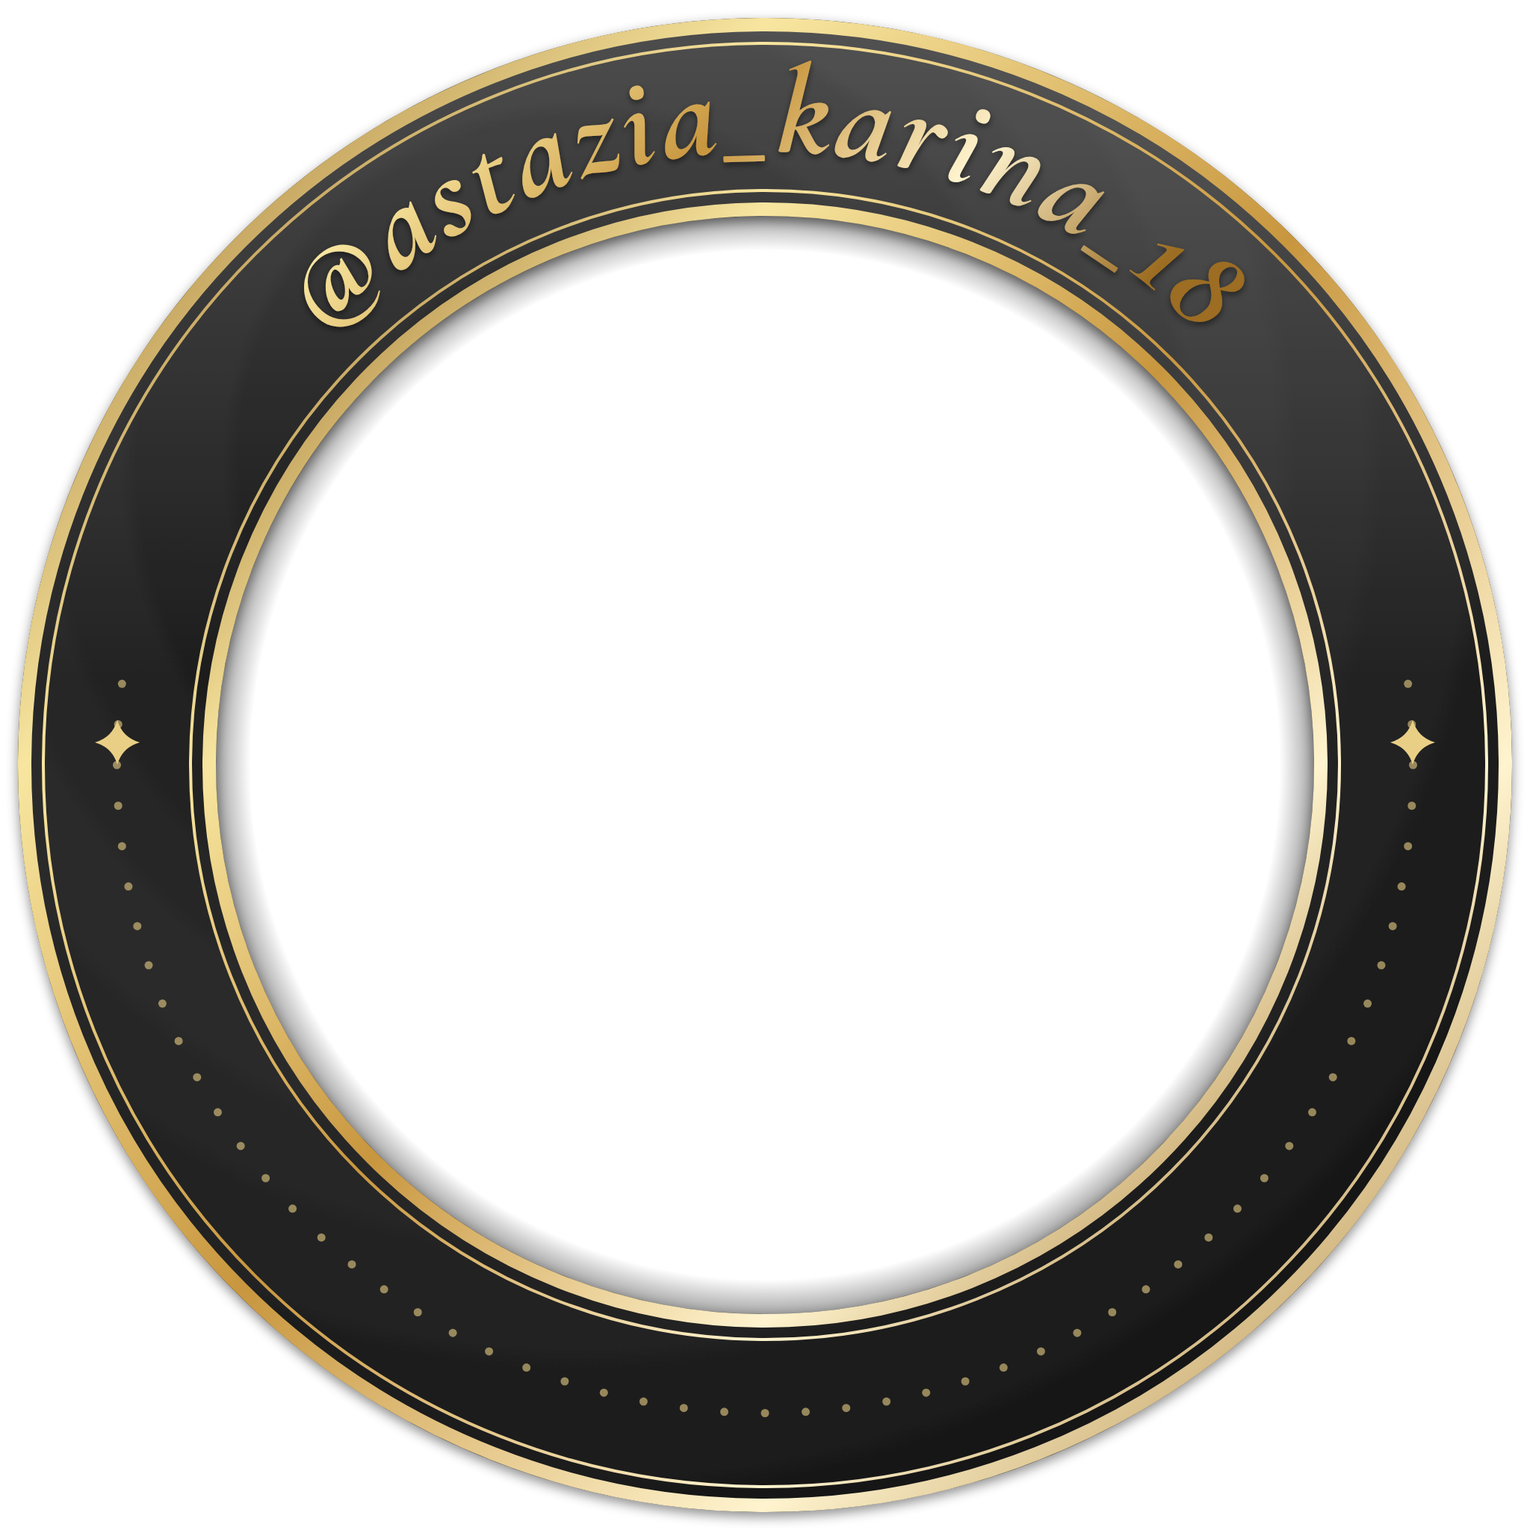
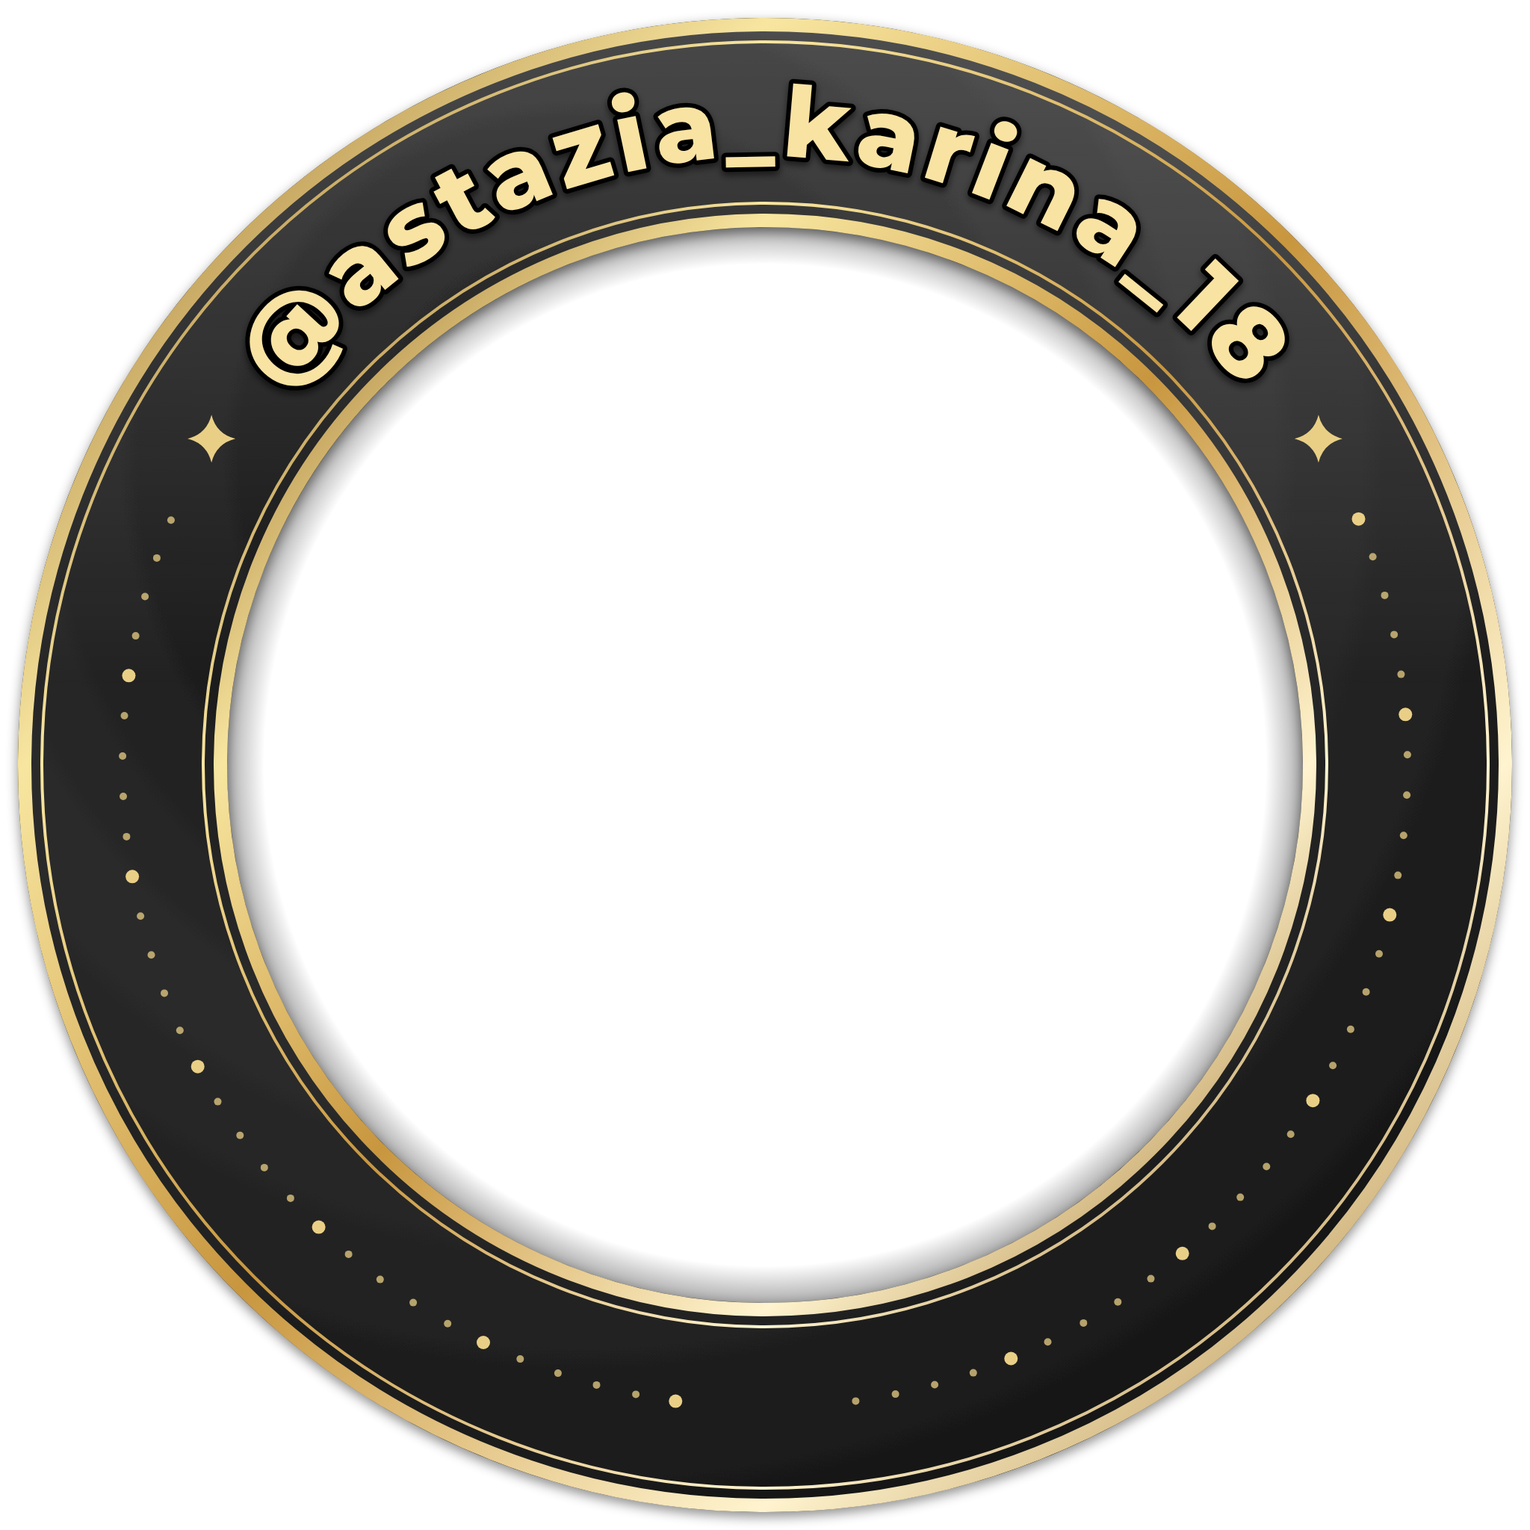
Watermark frames: bolder readable handle, add neon/holo/floral/pearl variants
Claude-Session: https://claude.ai/code/session_015QiSzBnuy4kWTC8PUf7EwQ

diff --git a/watermark/src/build2.js b/watermark/src/build2.js
@@ -1,0 +1,182 @@
+// Round Telegram watermark frames: transparent centre for a photo, handle along the top arc.
+const fs = require("fs");
+const { chromium } = require("/opt/node22/lib/node_modules/playwright");
+const fp = "/root/intro/node_modules/@fontsource";
+const B = (p) => fs.readFileSync(`${fp}/${p}`).toString("base64");
+const HANDLE = "@astazia_karina_18";
+const S = 2048, C = S / 2, RO = 1000, RI = 720, RM = (RO + RI) / 2;
+const FONTS = {
+  Mont: "montserrat/files/montserrat-latin-800-normal.woff2",
+  Comf: "comfortaa/files/comfortaa-latin-700-normal.woff2",
+  Unb: "unbounded/files/unbounded-latin-700-normal.woff2",
+};
+const css = Object.entries(FONTS).map(([n, p]) => `@font-face{font-family:${n};src:url(data:font/woff2;base64,${B(p)})}`).join("");
+const polar = (r, deg) => [C + r * Math.sin(deg * Math.PI / 180), C - r * Math.cos(deg * Math.PI / 180)];   // 0° = top, clockwise
+const f1 = (n) => n.toFixed(1);
+const stops = (arr) => arr.map((c, i) => `<stop offset="${(i / (arr.length - 1)).toFixed(3)}" stop-color="${c}"/>`).join("");
+const star = (x, y, r, fill, extra = "") => { const k = r * 0.2; return `<path d="M${f1(x)} ${f1(y - r)} Q${f1(x + k)} ${f1(y - k)} ${f1(x + r)} ${f1(y)} Q${f1(x + k)} ${f1(y + k)} ${f1(x)} ${f1(y + r)} Q${f1(x - k)} ${f1(y + k)} ${f1(x - r)} ${f1(y)} Q${f1(x - k)} ${f1(y - k)} ${f1(x)} ${f1(y - r)}Z" fill="${fill}" ${extra}/>`; };
+const TG_PATH = "M54.3 118.8c35-15.2 58.3-25.3 70-30.2 33.3-13.9 40.3-16.3 44.8-16.4 1 0 3.2.2 4.7 1.4 1.2 1 1.5 2.3 1.7 3.3s.4 3.1.2 4.7c-1.8 19-9.6 65.1-13.6 86.3-1.7 9-5 12-8.2 12.3-7 .6-12.3-4.6-19-9-10.6-6.9-16.5-11.2-26.8-18-11.9-7.8-4.2-12.1 2.6-19.1 1.8-1.8 32.5-29.8 33.1-32.3.1-.3.1-1.5-.6-2.1-.7-.6-1.7-.4-2.5-.2-1.1.2-17.9 11.4-50.6 33.5-4.8 3.3-9.1 4.9-13 4.8-4.3-.1-12.5-2.4-18.7-4.4-7.5-2.4-13.5-3.7-13-7.9.3-2.2 3.3-4.4 8.9-6.7z";
+function tgBadge(ring, opts = {}) {
+  const [x, y] = polar(RM, 180), s = opts.scale || 1;
+  const inner = opts.neon
+    ? `<circle cx="120" cy="120" r="112" fill="#0b0612"/><path transform="translate(-6 0)" fill="none" stroke="#7ff3ff" stroke-width="7" stroke-linejoin="round" d="${TG_PATH}" filter="url(#glowC)"/><path transform="translate(-6 0)" fill="#e9fdff" d="${TG_PATH}"/>`
+    : `<circle cx="120" cy="120" r="112" fill="url(#tgGrad)"/><path transform="translate(-6 0)" fill="#fff" d="${TG_PATH}"/>`;
+  return `<g transform="translate(${f1(x)} ${f1(y)}) scale(${s}) translate(-120 -120)"><circle cx="120" cy="120" r="128" fill="${ring}" filter="url(#sh)" ${opts.neon ? 'stroke="#ff4fd8" stroke-width="6"' : ""}/>${inner}</g>`;
+}
+const COMMON_DEFS = `
+  <linearGradient id="tgGrad" x1="0" y1="0" x2="0" y2="1"><stop offset="0" stop-color="#37BBFE"/><stop offset="1" stop-color="#007DBB"/></linearGradient>
+  <radialGradient id="inner" cx="0.5" cy="0.5" r="0.5"><stop offset="${((RI - 50) / RI).toFixed(3)}" stop-color="#000" stop-opacity="0"/><stop offset="1" stop-color="#000" stop-opacity="0.32"/></radialGradient>
+  <linearGradient id="gloss" x1="0" y1="0" x2="0" y2="1"><stop offset="0" stop-color="#fff" stop-opacity="0.2"/><stop offset="0.45" stop-color="#fff" stop-opacity="0"/></linearGradient>
+  <filter id="sh" x="-20%" y="-20%" width="140%" height="140%"><feDropShadow dx="0" dy="6" stdDeviation="8" flood-color="#000" flood-opacity="0.45"/></filter>
+  <filter id="tsh" x="-10%" y="-10%" width="120%" height="120%"><feDropShadow dx="0" dy="5" stdDeviation="5" flood-color="#000" flood-opacity="0.55"/></filter>
+  <mask id="ring"><rect width="${S}" height="${S}" fill="#000"/><circle cx="${C}" cy="${C}" r="${RO}" fill="#fff"/><circle cx="${C}" cy="${C}" r="${RI}" fill="#000"/></mask>`;
+const arcPath = (r) => `M ${C - r} ${C} A ${r} ${r} 0 1 1 ${C + r} ${C} A ${r} ${r} 0 1 1 ${C - r} ${C}`;
+// text on the top arc; style = {font,size,spacing,fill,stroke,strokeW,filter}
+function arcText(t) {
+  return `<path id="arcTop" d="${arcPath(t.r)}" fill="none"/>
+  <text font-family="${t.font}" font-size="${t.size}" letter-spacing="${t.spacing}" fill="${t.fill}" ${t.stroke ? `stroke="${t.stroke}" stroke-width="${t.strokeW}" stroke-linejoin="round" paint-order="stroke"` : ""} ${t.filter ? `filter="url(#${t.filter})"` : ""}>
+    <textPath href="#arcTop" startOffset="25%" text-anchor="middle">${HANDLE}</textPath></text>`;
+}
+// degrees spanned by the handle (half-span), from measured width
+const halfSpan = (w, r) => (w / r) * 180 / Math.PI / 2;
+const ringDots = (r, from, to, step, fill, big = 5, small = 3, op = 0.75) => { let s = ""; for (let a = from; a <= to + 1e-6; a += step) { const [x, y] = polar(r, a), isBig = Math.round((a - from) / step) % 5 === 0;
+  s += `<circle cx="${f1(x)}" cy="${f1(y)}" r="${isBig ? big : small}" fill="${fill}" opacity="${isBig ? 1 : op}"/>`; } return s; };
+
+// ---------------- classic family (better legibility) ----------------
+function classic(v, m, withTg) {
+  const T = { font: "Mont", size: 132, spacing: 8, r: RM - 46 };
+  const hs = halfSpan(m(T), T.r) + 7, metal = "url(#metal)";
+  const sideFrom = hs + 8, botGap = withTg ? 17 : 0;
+  let deco = ringDots(RM, sideFrom, 180 - botGap - 8, 3.6, v.dots, 9, 5) + ringDots(RM, 180 + botGap + 8, 360 - sideFrom, 3.6, v.dots, 9, 5);
+  for (const a of [-hs, hs]) { const [x, y] = polar(RM, a); deco += star(x, y, 32, v.dots); }
+  if (withTg) for (const a of [180 - botGap - 2, 180 + botGap + 2]) { const [x, y] = polar(RM, a); deco += star(x, y, 22, v.dots); }
+  return { defs: `<linearGradient id="metal" x1="0" y1="0" x2="1" y2="1">${stops(v.metal)}</linearGradient><radialGradient id="band" cx="0.38" cy="0.3" r="0.85">${stops(v.band)}</radialGradient>`,
+    body: `<g filter="url(#sh)"><rect width="${S}" height="${S}" fill="url(#band)" mask="url(#ring)"/></g>
+  <circle cx="${C}" cy="${C}" r="${RO}" fill="url(#gloss)" mask="url(#ring)"/>
+  <circle cx="${C}" cy="${C}" r="${RI}" fill="url(#inner)"/>
+  <circle cx="${C}" cy="${C}" r="${RO - 9}" fill="none" stroke="${metal}" stroke-width="18"/>
+  <circle cx="${C}" cy="${C}" r="${RO - 32}" fill="none" stroke="${metal}" stroke-width="4"/>
+  <circle cx="${C}" cy="${C}" r="${RI + 9}" fill="none" stroke="${metal}" stroke-width="18"/>
+  <circle cx="${C}" cy="${C}" r="${RI + 32}" fill="none" stroke="${metal}" stroke-width="4"/>
+  ${deco}${arcText({ ...T, fill: v.text, stroke: v.stroke, strokeW: 12, filter: v.shadow ? "tsh" : "" })}${withTg ? tgBadge(metal) : ""}` };
+}
+const CLASSIC = {
+  burgundy: { band: ["#4a0f22", "#8c2648", "#5e1430"], metal: ["#8a5a14", "#f8e6a0", "#c8963e", "#fff4cf", "#9c6d22"], text: "#fff1c9", stroke: "#3a0a18", shadow: true, dots: "#f3d98f" },
+  black: { band: ["#050505", "#2b2b2b", "#0d0d0d"], metal: ["#8a5a14", "#f8e6a0", "#c8963e", "#fff4cf", "#9c6d22"], text: "#f9e3a3", stroke: "#000000", shadow: true, dots: "#e9cf86" },
+  powder: { band: ["#e9b3bf", "#fbe3e7", "#e6a9b7"], metal: ["#9b5560", "#f6d2c4", "#c27f86", "#ffe9df", "#a8636c"], text: "#6e1736", stroke: "#fff4f6", shadow: false, dots: "#ffffff" },
+  lavender: { band: ["#3b2a63", "#7a62b8", "#4a3678"], metal: ["#7d7f8c", "#ffffff", "#b9bcc8", "#f4f5fa", "#8d909c"], text: "#ffffff", stroke: "#2a1b4d", shadow: true, dots: "#ffffff" },
+};
+
+// ---------------- unusual ----------------
+function neon(m, withTg) {
+  const T = { font: "Unb", size: 100, spacing: 6, r: RM - 34 };
+  const hs = halfSpan(m(T), T.r) + 7;
+  let deco = "";
+  for (const a of [-hs, hs]) { const [x, y] = polar(RM, a); deco += star(x, y, 30, "#fff", 'filter="url(#glowP)"'); }
+  for (let a = hs + 14; a < 360 - hs - 10; a += 9) { if (withTg && Math.abs(a - 180) < 20) continue; const [x, y] = polar(RM, a); deco += `<circle cx="${f1(x)}" cy="${f1(y)}" r="${Math.round(a) % 27 < 9 ? 7 : 4}" fill="#7ff3ff" filter="url(#glowC)"/>`; }
+  const tube = (r, col, glow, w) => `<circle cx="${C}" cy="${C}" r="${r}" fill="none" stroke="${col}" stroke-width="${w * 2.2}" opacity="0.55" filter="url(#${glow})"/><circle cx="${C}" cy="${C}" r="${r}" fill="none" stroke="${col}" stroke-width="${w}" filter="url(#${glow})"/><circle cx="${C}" cy="${C}" r="${r}" fill="none" stroke="#fff" stroke-width="${w * 0.4}" opacity="0.9"/>`;
+  return { defs: `
+    <radialGradient id="band" cx="0.5" cy="0.5" r="0.5"><stop offset="0.7" stop-color="#1a0b2b"/><stop offset="0.86" stop-color="#0c0616"/><stop offset="1" stop-color="#1a0b2b"/></radialGradient>
+    <filter id="glowP" x="-50%" y="-50%" width="200%" height="200%"><feGaussianBlur stdDeviation="9" result="b"/><feFlood flood-color="#ff3fd2"/><feComposite in2="b" operator="in" result="c"/><feMerge><feMergeNode in="c"/><feMergeNode in="c"/><feMergeNode in="SourceGraphic"/></feMerge></filter>
+    <filter id="glowC" x="-50%" y="-50%" width="200%" height="200%"><feGaussianBlur stdDeviation="7" result="b"/><feFlood flood-color="#37e6ff"/><feComposite in2="b" operator="in" result="c"/><feMerge><feMergeNode in="c"/><feMergeNode in="c"/><feMergeNode in="SourceGraphic"/></feMerge></filter>
+    <filter id="glowT" x="-10%" y="-30%" width="120%" height="160%"><feGaussianBlur stdDeviation="12" result="b"/><feFlood flood-color="#ff2fcf"/><feComposite in2="b" operator="in" result="c"/><feMerge><feMergeNode in="c"/><feMergeNode in="c"/><feMergeNode in="c"/><feMergeNode in="SourceGraphic"/></feMerge></filter>`,
+    body: `<rect width="${S}" height="${S}" fill="url(#band)" mask="url(#ring)" filter="url(#sh)"/>
+    <circle cx="${C}" cy="${C}" r="${RI}" fill="url(#inner)"/>
+    ${tube(RO - 16, "#ff4fd8", "glowP", 10)}${tube(RI + 14, "#37e6ff", "glowC", 9)}${deco}
+    ${arcText({ ...T, fill: "#fff4fd", stroke: "#ff4fd8", strokeW: 5, filter: "glowT" })}${withTg ? tgBadge("#0b0612", { neon: true }) : ""}` };
+}
+function holoImage() {   // pastel holographic conic gradient, made once with canvas in the page
+  return `(() => { const c = document.createElement("canvas"); c.width = c.height = ${S}; const g = c.getContext("2d");
+    const cg = g.createConicGradient(-Math.PI / 2, ${C}, ${C}); const cols = ["#ffc4ec","#c9b8ff","#9fe6ff","#b8ffe0","#fff4ad","#ffc9a8","#ffc4ec","#bba9ff","#9fe6ff","#c7ffd8","#ffe7b0","#ffc4ec"];
+    cols.forEach((col, i) => cg.addColorStop(i / (cols.length - 1), col)); g.fillStyle = cg; g.fillRect(0, 0, ${S}, ${S});
+    const rg = g.createRadialGradient(${C}, ${C}, ${RI}, ${C}, ${C}, ${RO}); rg.addColorStop(0, "rgba(255,255,255,0.0)"); rg.addColorStop(0.5, "rgba(255,255,255,0.35)"); rg.addColorStop(1, "rgba(255,255,255,0.0)");
+    g.fillStyle = rg; g.fillRect(0, 0, ${S}, ${S}); return c.toDataURL("image/png"); })()`;
+}
+function holo(m, withTg, holoURL) {
+  const T = { font: "Unb", size: 112, spacing: 6, r: RM - 40 };
+  const hs = halfSpan(m(T), T.r) + 7;
+  let deco = "";
+  for (const a of [-hs, hs]) { const [x, y] = polar(RM, a); deco += star(x, y, 34, "#fff", 'filter="url(#sh)"'); }
+  const r2 = (a) => polar(RM, a);
+  for (let a = hs + 16; a < 360 - hs - 10; a += 24) { if (withTg && Math.abs(a - 180) < 22) continue; const [x, y] = r2(a); deco += star(x, y, a % 48 < 24 ? 16 : 11, "#ffffff", 'opacity="0.95"'); }
+  return { defs: `<linearGradient id="chrome" x1="0" y1="0" x2="1" y2="1">${stops(["#d9dbe6", "#ffffff", "#b6b9cc", "#ffffff", "#c6c9da"])}</linearGradient>`,
+    body: `<g filter="url(#sh)"><image href="${holoURL}" x="0" y="0" width="${S}" height="${S}" mask="url(#ring)"/></g>
+    <circle cx="${C}" cy="${C}" r="${RO}" fill="url(#gloss)" mask="url(#ring)"/>
+    <circle cx="${C}" cy="${C}" r="${RI}" fill="url(#inner)"/>
+    <circle cx="${C}" cy="${C}" r="${RO - 8}" fill="none" stroke="url(#chrome)" stroke-width="16"/>
+    <circle cx="${C}" cy="${C}" r="${RI + 8}" fill="none" stroke="url(#chrome)" stroke-width="16"/>
+    ${deco}${arcText({ ...T, fill: "#ffffff", stroke: "#4b2f86", strokeW: 16, filter: "tsh" })}${withTg ? tgBadge("url(#chrome)") : ""}` };
+}
+function floral(m, withTg) {
+  const T = { font: "Mont", size: 120, spacing: 8, r: RM - 40 };
+  const hs = halfSpan(m(T), T.r) + 6;
+  const leaf = (a, r, rot, len, w, col) => { const [x, y] = polar(r, a);
+    return `<g transform="translate(${f1(x)} ${f1(y)}) rotate(${f1(a + rot)})"><path d="M0 0 Q${w} ${-len * 0.5} 0 ${-len} Q${-w} ${-len * 0.5} 0 0Z" fill="${col}"/><path d="M0 -4 L0 ${-len * 0.85}" stroke="#ffffff" stroke-opacity="0.35" stroke-width="3"/></g>`; };
+  const flower = (a, r, size, petal, center) => { const [x, y] = polar(r, a); let s = `<g transform="translate(${f1(x)} ${f1(y)}) rotate(${f1(a * 2.3)})">`;
+    for (let k = 0; k < 5; k++) s += `<ellipse cx="0" cy="${-size * 0.55}" rx="${size * 0.42}" ry="${size * 0.6}" fill="url(#${petal})" transform="rotate(${k * 72})"/>`;
+    return s + `<circle r="${size * 0.28}" fill="${center}"/><circle r="${size * 0.12}" cx="${-size * 0.06}" cy="${-size * 0.06}" fill="#fff6c8"/></g>`; };
+  let wreath = "", buds = "";
+  const from = hs + 6, to = 360 - hs - 6, skip = (a) => withTg && Math.abs(a - 180) < 16;
+  for (let a = from; a <= to; a += 5.5) { if (skip(a)) continue; const out = Math.round(a / 5.5) % 2;
+    wreath += leaf(a, RM + (out ? 18 : -18), out ? 55 : 125, 100, 32, out ? "#5f8f62" : "#7fae79"); }
+  let i = 0;
+  for (let a = from + 6; a <= to - 4; a += 17, i++) { if (skip(a)) continue;
+    wreath += i % 3 === 2 ? flower(a, RM, 46, "petW", "#f4c04e") : flower(a, RM + (i % 2 ? 8 : -8), i % 3 ? 66 : 76, i % 3 ? "petP" : "petR", "#f0b43a"); }
+  for (let a = from + 14; a <= to - 4; a += 34) { if (skip(a)) continue; const [x, y] = polar(RM + 48, a); buds += `<circle cx="${f1(x)}" cy="${f1(y)}" r="9" fill="#f6a6bd"/>`; const [x2, y2] = polar(RM - 50, a + 7); buds += `<circle cx="${f1(x2)}" cy="${f1(y2)}" r="7" fill="#ffffff"/>`; }
+  return { defs: `<radialGradient id="band" cx="0.4" cy="0.3" r="0.9">${stops(["#fffaf5", "#fbeee9", "#f6e0dc"])}</radialGradient>
+    <radialGradient id="petP" cx="0.5" cy="0.8" r="0.9">${stops(["#ffffff", "#f8b7c9", "#ee7f9f"])}</radialGradient>
+    <radialGradient id="petR" cx="0.5" cy="0.8" r="0.9">${stops(["#ffe9ef", "#f08aa6", "#d44f78"])}</radialGradient>
+    <radialGradient id="petW" cx="0.5" cy="0.8" r="0.9">${stops(["#ffffff", "#fff7f2", "#f2dfe6"])}</radialGradient>
+    <linearGradient id="gold" x1="0" y1="0" x2="1" y2="1">${stops(["#b88a4a", "#f6e2b3", "#c99a5b", "#fff1d0", "#ad7f40"])}</linearGradient>`,
+    body: `<g filter="url(#sh)"><rect width="${S}" height="${S}" fill="url(#band)" mask="url(#ring)"/></g>
+    <circle cx="${C}" cy="${C}" r="${RI}" fill="url(#inner)"/>
+    <circle cx="${C}" cy="${C}" r="${RO - 6}" fill="none" stroke="url(#gold)" stroke-width="12"/>
+    <circle cx="${C}" cy="${C}" r="${RI + 6}" fill="none" stroke="url(#gold)" stroke-width="12"/>
+    <g filter="url(#sh)">${wreath}</g>${buds}
+    ${arcText({ ...T, fill: "#2f5a37", stroke: "#ffffff", strokeW: 12 })}${withTg ? tgBadge("url(#gold)") : ""}` };
+}
+function pearl(m, withTg) {
+  const T = { font: "Mont", size: 120, spacing: 8, r: RM - 34 };
+  const hs = halfSpan(m(T), T.r) + 6;
+  // scalloped lace edge
+  const n = 56, rA = RO - 34; let d = "";
+  for (let k = 0; k < n; k++) { const a0 = k * 360 / n, a1 = (k + 1) * 360 / n, [x0, y0] = polar(rA, a0), [x1, y1] = polar(rA, a1), ch = Math.hypot(x1 - x0, y1 - y0) / 2;
+    d += (k ? "" : `M${f1(x0)} ${f1(y0)} `) + `A${f1(ch)} ${f1(ch)} 0 0 1 ${f1(x1)} ${f1(y1)} `; }
+  let holes = ""; for (let k = 0; k < n; k++) { const [x, y] = polar(rA + 4, (k + 0.5) * 360 / n); holes += `<circle cx="${f1(x)}" cy="${f1(y)}" r="9" fill="#000"/>`; const [x2, y2] = polar(rA - 22, k * 360 / n); holes += `<circle cx="${f1(x2)}" cy="${f1(y2)}" r="5" fill="#000"/>`; }
+  let pearls = ""; const pr = RI + 26, cnt = Math.round(2 * Math.PI * pr / 38);
+  for (let k = 0; k < cnt; k++) { const [x, y] = polar(pr, k * 360 / cnt); pearls += `<circle cx="${f1(x)}" cy="${f1(y)}" r="17.5" fill="url(#pearl)"/>`; }
+  let big = ""; for (let a = hs + 12; a < 360 - hs - 8; a += 12) { if (withTg && Math.abs(a - 180) < 18) continue; const [x, y] = polar(RM + 30, a); big += `<circle cx="${f1(x)}" cy="${f1(y)}" r="${Math.round(a) % 36 < 12 ? 15 : 10}" fill="url(#pearl)"/>`; }
+  for (const a of [-hs, hs]) { const [x, y] = polar(RM + 6, a); big += `<circle cx="${f1(x)}" cy="${f1(y)}" r="26" fill="url(#pearl)"/>`; }
+  return { defs: `<radialGradient id="satin" cx="0.35" cy="0.25" r="0.95">${stops(["#ffffff", "#fbf3f5", "#efdbe2", "#f9eef1"])}</radialGradient>
+    <radialGradient id="pearl" cx="0.35" cy="0.3" r="0.75">${stops(["#ffffff", "#f6eef4", "#dccfdc", "#b9a9bd"])}</radialGradient>
+    <linearGradient id="rose" x1="0" y1="0" x2="1" y2="1">${stops(["#9b5560", "#f6d2c4", "#c27f86", "#ffe9df", "#a8636c"])}</linearGradient>
+    <mask id="lace"><rect width="${S}" height="${S}" fill="#000"/><path d="${d}Z" fill="#fff"/><circle cx="${C}" cy="${C}" r="${RI}" fill="#000"/>${holes}</mask>`,
+    body: `<g filter="url(#sh)"><rect width="${S}" height="${S}" fill="url(#satin)" mask="url(#lace)"/></g>
+    <circle cx="${C}" cy="${C}" r="${RI}" fill="url(#inner)"/>
+    <circle cx="${C}" cy="${C}" r="${rA - 40}" fill="none" stroke="url(#rose)" stroke-width="4"/>
+    <circle cx="${C}" cy="${C}" r="${RI + 6}" fill="none" stroke="url(#rose)" stroke-width="10"/>
+    <g filter="url(#sh)">${pearls}${big}</g>
+    ${arcText({ ...T, fill: "#7a3348", stroke: "#ffffff", strokeW: 10 })}${withTg ? tgBadge("url(#rose)") : ""}` };
+}
+
+(async () => {
+  const br = await chromium.launch({ executablePath: "/opt/pw-browsers/chromium" });
+  const pg = await br.newPage({ viewport: { width: S, height: S } });
+  await pg.setContent(`<style>${css}</style><div style="font-family:Mont">a</div><div style="font-family:Comf">a</div><div style="font-family:Unb">a</div>`);
+  await pg.evaluate(async () => { await Promise.all(["Mont", "Comf", "Unb"].map((f) => document.fonts.load(`100px ${f}`, "@astazia_karina_18"))); });
+  const widths = {};
+  for (const [font, size, sp] of [["Mont", 132, 8], ["Mont", 120, 8], ["Unb", 112, 6], ["Unb", 100, 6]])
+    widths[`${font}|${size}|${sp}`] = await pg.evaluate(([f, s, l, h]) => { const c = document.createElement("canvas").getContext("2d"); c.font = `${s}px ${f}`; c.letterSpacing = `${l}px`; return c.measureText(h).width; }, [font, size, sp, HANDLE]);
+  const m = (t) => widths[`${t.font}|${t.size}|${t.spacing}`];
+  const holoURL = await pg.evaluate(holoImage());
+  const jobs = { ...Object.fromEntries(Object.entries(CLASSIC).map(([k, v]) => [k, (tg) => classic(v, m, tg)])),
+    neon: (tg) => neon(m, tg), holo: (tg) => holo(m, tg, holoURL), floral: (tg) => floral(m, tg), pearl: (tg) => pearl(m, tg) };
+  fs.mkdirSync("out2", { recursive: true });
+  for (const [k, fn] of Object.entries(jobs)) for (const tg of [true, false]) {
+    const { defs, body } = fn(tg);
+    await pg.setContent(`<style>${css}html,body{margin:0;background:transparent}</style><svg xmlns="http://www.w3.org/2000/svg" width="${S}" height="${S}" viewBox="0 0 ${S} ${S}"><defs>${COMMON_DEFS}${defs}</defs>${body}</svg>`);
+    await pg.evaluate(() => document.fonts.ready); await pg.waitForTimeout(120);
+    await pg.screenshot({ path: `out2/frame_${k}${tg ? "" : "_notg"}.png`, omitBackground: true, clip: { x: 0, y: 0, width: S, height: S } });
+  }
+  await br.close();
+})();

diff --git a/watermark/src/preview.py b/watermark/src/preview.py
@@ -1,0 +1,14 @@
+import sys
+from PIL import Image, ImageDraw
+import numpy as np
+S=2048; names=sys.argv[2].split(','); out=sys.argv[1]; tile=int(sys.argv[3]) if len(sys.argv)>3 else 640
+y,x=np.mgrid[0:S,0:S]/S
+photo=Image.fromarray(np.dstack([200+40*x,170+50*y,190+30*(1-x)]).clip(0,255).astype('uint8')).convert('RGBA')
+d=ImageDraw.Draw(photo); d.ellipse((S/2-260,S/2-430,S/2+260,S/2+130),fill=(120,95,110,255)); d.ellipse((S/2-560,S/2+150,S/2+560,S/2+1100),fill=(120,95,110,255))
+mask=Image.new('L',(S,S),0); ImageDraw.Draw(mask).ellipse((S/2-740,S/2-740,S/2+740,S/2+740),fill=255)
+cols=4 if len(names)>4 else 2; rows=(len(names)+cols-1)//cols
+sheet=Image.new('RGB',(tile*cols,tile*rows),(236,232,228))
+for i,k in enumerate(names):
+    bg=Image.new('RGBA',(S,S),(236,232,228,255)); bg.paste(photo,(0,0),mask); bg.alpha_composite(Image.open(f'/root/frame/out2/frame_{k}.png'))
+    sheet.paste(bg.convert('RGB').resize((tile,tile),Image.LANCZOS),((i%cols)*tile,(i//cols)*tile))
+sheet.save(out)
